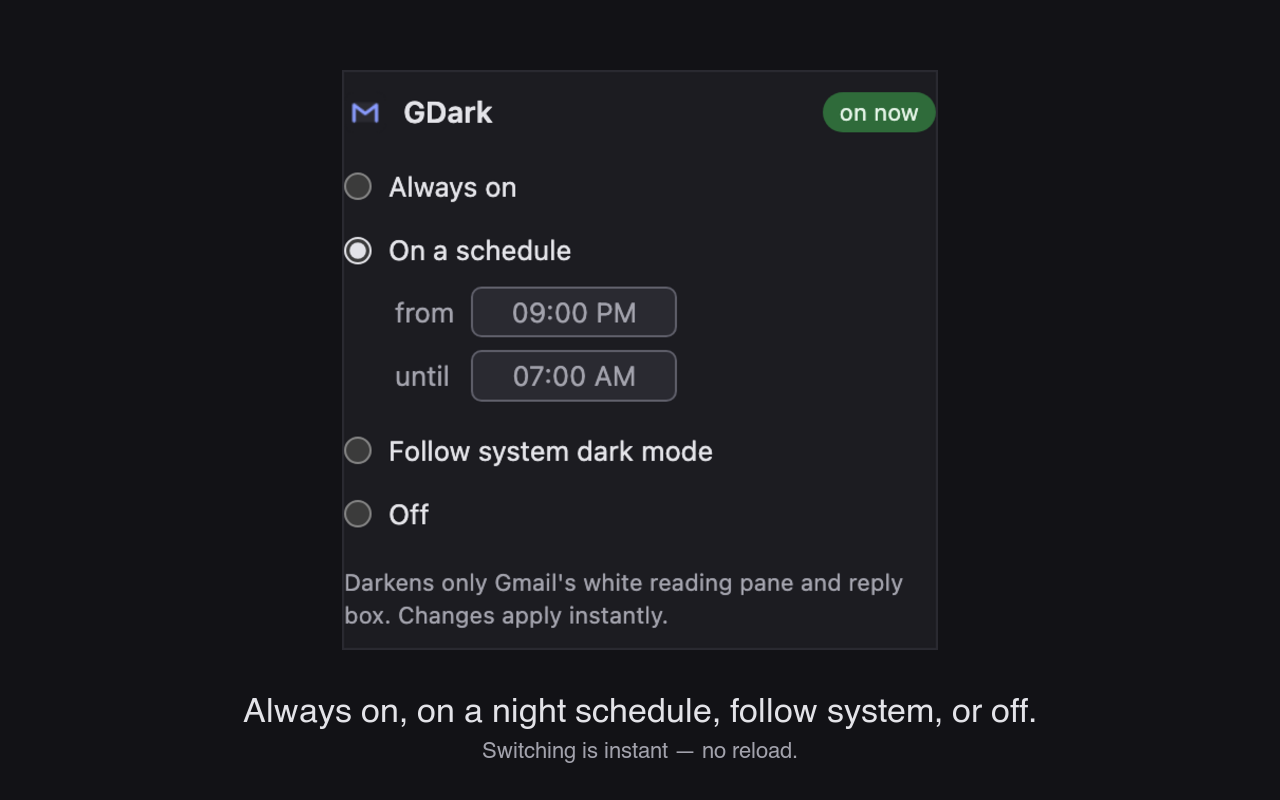
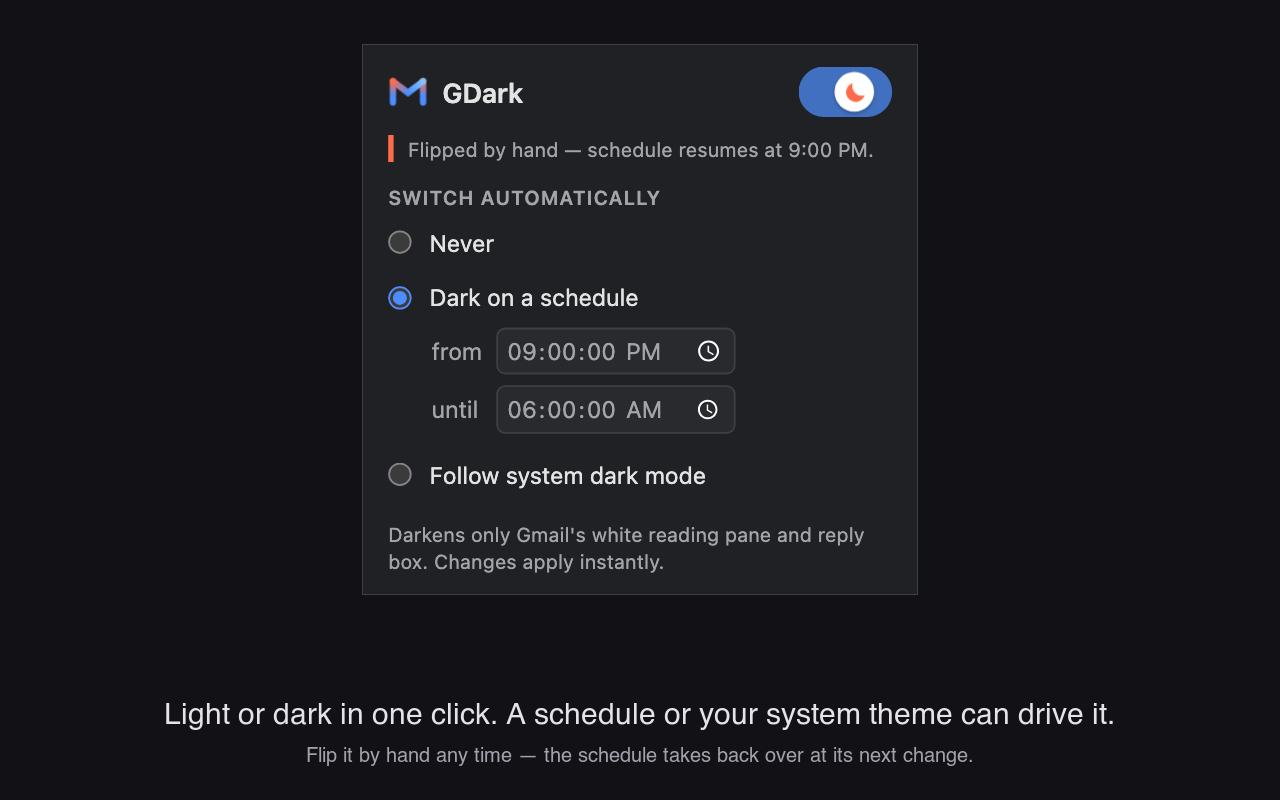
2.3.1 — menu and compose-shelf fixes, pill toggle, one-command publish
Gmail pop-up menus (.J-M): sprite icons on .J-N-JX get inverted, the
#ebebeb .J-Kh separator is toned down, and the hover highlight is painted
statically — the sweep dimmed Gmail's #eee but its class never came off,
so every row the mouse crossed stayed lit and hover read as nothing.

Docked compose shelf (.aDj): .aC2/.aC3 are Gmail's opaque sheet hiding the
reply body under the toolbar, so they're painted the card color instead of
blanked — transparent let the inverted body show through below the Send
row. Added a hairline + shadow on top and a border on ::before to replace
the ones that vanish on dark, and inverted the discard-draft trash sprite.

Popup: the Light/Dark segmented control is now a pill toggle in the
header — one hit target, click anywhere, and a row of space back.

Also: publish.sh submits to both stores in one command, the chat compose
fix keeps popups mounted in the field's container dimmed, and the store
screenshot/promo tiles are generated by scripts in store/.

Claude-Session: https://claude.ai/code/session_01Bv9zWxviqHxjgUVyYHa3Ha

Changed region(s): [[0.25, 0.0625, 0.75, 0.8125], [0.125, 0.875, 0.875, 0.9688]]

diff --git a/darkbox.css b/darkbox.css
@@ -52,11 +52,18 @@ html.gdark .nH.Hd .a8X .T-I-atl { /* keep the blue Send button un-inverted */
   filter: none;
 }
 
-/* white bars inside the card: reply-button row, smart-reply row, compose footer */
+/* white bars inside the card: reply-button row, smart-reply row */
 html.gdark :is(.iY, .nH.Hd) .nH,
-html.gdark :is(.iY, .nH.Hd) .nr.wR,
-html.gdark :is(.iY, .nH.Hd) .aC2 {
+html.gdark :is(.iY, .nH.Hd) .nr.wR {
   background-color: transparent !important;
+}
+/* .aC2 / .aC3 are Gmail's opaque sheet behind the docked compose shelf — the
+ * white that hides the reply body scrolling below the toolbar. Blanking them
+ * let the inverted body show through under the shelf (its text legible in the
+ * strip below the Send row), so they get painted the card color instead. */
+html.gdark :is(.iY, .nH.Hd) .aC2,
+html.gdark :is(.iY, .nH.Hd) .aC3 {
+  background-color: #1c1c21 !important;
 }
 
 /* Gmail chrome text inside the card */
@@ -127,8 +134,7 @@ html.gdark :is(.iY, .nH.Hd) .Am.editable img {
 
 /* expanded compose header: From / To / Cc / Bcc rows */
 html.gdark :is(.iY, .nH.Hd) .M9 .agh,   /* recipient area */
-html.gdark :is(.iY, .nH.Hd) .M9 .aGb,   /* recipient row bar */
-html.gdark :is(.iY, .nH.Hd) .aC3 {      /* compose footer strip */
+html.gdark :is(.iY, .nH.Hd) .M9 .aGb {  /* recipient row bar */
   background-color: transparent !important;
 }
 
@@ -238,8 +244,10 @@ html.gdark.gdb-chat [role="textbox"] {
   caret-color: #e3e3e8;
 }
 /* wrappers around the field that the sweep dimmed (Firefox paints the
- * field's own box) go transparent too; buttons keep their state layers */
-html.gdark.gdb-chat .gdb-compose :is(div, span):is(.gdb-dim, .gdb-dim2) {
+ * field's own box) go transparent too — but only the field's own ancestor
+ * chain (.gdb-field-wrap, tagged by content.js). Popups mounted inside the
+ * same container (the "+" Workspace tools menu) keep their dimmed surface. */
+html.gdark.gdb-chat .gdb-compose .gdb-field-wrap:is(.gdb-dim, .gdb-dim2) {
   background-color: transparent !important;
 }
 /* chat: Google's blue-600 (#0b57d0) text — smart-reply chips, "more
@@ -285,12 +293,60 @@ html.gdark.gdb-chat .gdb-lighten {
   color: #d8d8de !important;
 }
 
+/* Gmail pop-up menus (.J-M) — the sweep dims the white panel, but three
+ * pieces need explicit rules, and the highlight has to be static:
+ *  - .J-N-JX / .J-N-Jo icons are gstatic gm3 sprites (background-image on
+ *    a spacer <img>), near-black glyphs that disappear on the dark panel
+ *  - .J-Kh separator is a 1px #ebebeb border-top — a glaring white rule
+ *  - .J-N-JT / .J-N-JW (hover / keyboard highlight) is #eee, which the
+ *    sweep WOULD dim — but the class it adds never comes off, so every row
+ *    the mouse crossed stayed lit and hover read as no feedback at all.
+ *    Painting it here keeps hover a state instead of a scar: the computed
+ *    background is already dark when the sweep looks, so no tag is added.
+ *    These rules sit after the sweep-tag block so they win specificity ties. */
+html.gdark .J-M {
+  background-color: #26262c !important;
+  border-color: #3f3f48 !important;
+  box-shadow: 0 2px 10px rgba(0, 0, 0, 0.5) !important;
+}
+html.gdark .J-M .J-N,
+html.gdark .J-M .J-N .J-N-Jz {
+  color: #e6e6eb !important;
+}
+html.gdark .J-M .J-N-JE .J-N-Jz,   /* disabled items keep reading as disabled */
+html.gdark .J-M .J-N-JE .J-N-atj {
+  color: #6f6f7a !important;
+}
+html.gdark .J-M .J-N-JX,
+html.gdark .J-M .J-N-Jo {
+  filter: invert(0.8);
+}
+html.gdark .J-M .J-N.J-N-JT,
+html.gdark .J-M .J-N.J-N-JW,
+html.gdark .J-M .J-N:hover {
+  background-color: #3a3a44 !important;
+  border-color: #3a3a44 !important;
+}
+html.gdark .J-M .J-Kh {
+  border-top-color: #3f3f48 !important;
+}
+
 /* floating compose action shelf (toolbar + Send dock over the content
  * when you scroll a tall reply): its white backdrop is an ::after
  * pseudo-element on .aDj — pseudo-elements have no classList, so the
  * content.js sweep can never tag them; this must stay a static rule */
 html.gdark :is(.iY, .nH.Hd) .aDj::after {
   background-color: #1c1c21 !important;
+}
+/* ...and the shelf's own edges. Gmail lifts it off the content with a
+ * rgba(0,0,0,.1) top shadow and outlines it with a #e1e3e1 border on ::before;
+ * both vanish on dark, so the toolbar had no outline and text scrolled into it
+ * with no seam. A light hairline on top does the separating here. */
+html.gdark :is(.iY, .nH.Hd) .aDj {
+  box-shadow: 0 -1px 0 rgba(162, 162, 172, 0.3), 0 -6px 12px rgba(0, 0, 0, 0.55) !important;
+}
+html.gdark :is(.iY, .nH.Hd) .aDj::before {
+  border-color: rgba(162, 162, 172, 0.4) !important;
 }
 /* undo/redo pill that rides on the docked shelf */
 html.gdark :is(.iY, .nH.Hd) .Bswxkd {
@@ -300,6 +356,12 @@ html.gdark :is(.iY, .nH.Hd) .Bswxkd {
 /* inline compose window frame (1px rounded border on td.I5) */
 html.gdark :is(.iY, .nH.Hd) td.I5 {
   border-color: rgba(162, 162, 172, 0.4) !important;
+}
+
+/* discard-draft trash: a gstatic delete sprite on div.og, in the inline
+ * reply's footer row rather than the .a8X row the pop-out compose rule covers */
+html.gdark :is(.iY, .nH.Hd) .oh .og {
+  filter: invert(0.8);
 }
 
 /* compose formatting toolbar (Sans Serif / B / I / U ...) */

diff --git a/popup.css b/popup.css
@@ -27,40 +27,52 @@ header {
   margin-bottom: 10px;
 }
 .title { font-weight: 600; font-size: 15px; }
-.switch {
-  display: grid;
-  grid-template-columns: 1fr 1fr;
-  gap: 3px;
-  padding: 3px;
-  border-radius: 10px;
-  background: var(--well);
-}
-.switch button {
-  display: flex;
-  align-items: center;
-  justify-content: center;
-  gap: 6px;
-  padding: 7px 0;
+/* Header pill: one target, click anywhere to flip. The track states borrow
+   the segmented control's language — pale well for light, brand blue for
+   dark — and the sliding knob carries a coral sun or moon. */
+.toggle {
+  position: relative;
+  flex: none;
+  margin-left: auto;
+  width: 52px;
+  height: 28px;
+  padding: 0;
   border: 0;
-  border-radius: 8px;
-  font: inherit;
-  font-weight: 600;
-  color: var(--muted);
-  background: transparent;
+  border-radius: 999px;
+  background: var(--well);
+  box-shadow: inset 0 0 0 1px var(--line); /* the off track is close to the
+                                              popup background — ring it */
   cursor: pointer;
+  transition: background 0.18s ease;
 }
-.switch button:hover { color: var(--ink); background: var(--hover); }
-/* The selected segment previews what it does: Light is a white card with a
-   coral sun, Dark is a blue card with a coral moon. Same in both themes. */
-.switch button[aria-checked="true"] {
+.toggle[aria-checked="true"] { background: var(--blue); box-shadow: none; }
+.toggle:focus-visible { outline: 2px solid var(--blue); outline-offset: 2px; }
+.knob {
+  position: absolute;
+  top: 3px;
+  left: 3px;
+  display: grid;
+  place-items: center;
+  width: 22px;
+  height: 22px;
+  border-radius: 50%;
   background: #ffffff;
-  color: #1a1a1a;
-  box-shadow: 0 1px 2px rgba(0, 0, 0, 0.25);
-  cursor: default;
+  box-shadow: 0 1px 2px rgba(0, 0, 0, 0.3);
+  transition: transform 0.18s ease;
 }
-.switch button[aria-checked="true"]:last-child { background: var(--blue); color: #ffffff; }
-.switch button[aria-checked="true"] .glyph { color: var(--coral); }
-.glyph { width: 18px; height: 18px; flex: none; }
+.toggle[aria-checked="true"] .knob { transform: translateX(24px); }
+/* both glyphs are stacked in the knob; only the current one is shown */
+.glyph {
+  grid-area: 1 / 1;
+  width: 15px;
+  height: 15px;
+  color: var(--coral);
+}
+.toggle[aria-checked="true"] .sun,
+.toggle[aria-checked="false"] .moon { display: none; }
+@media (prefers-reduced-motion: reduce) {
+  .toggle, .knob { transition: none; }
+}
 .note {
   margin: 8px 0 0;
   padding-left: 8px;

diff --git a/popup.html b/popup.html
@@ -8,14 +8,15 @@
   <header>
     <img src="icons/icon-32.png" alt="" width="22" height="22">
     <span class="title">GDark</span>
+    <!-- One hit target: click anywhere on the pill to flip Gmail. The knob
+         carries the glyph for the mode you are in — sun left, moon right. -->
+    <button type="button" id="switch" class="toggle" role="switch" aria-checked="false" aria-label="Dark mode">
+      <span class="knob">
+        <svg class="glyph sun" viewBox="0 0 24 24" aria-hidden="true"><circle cx="12" cy="12" r="4.5" fill="currentColor"/><path d="M12 2.5v3M12 18.5v3M2.5 12h3M18.5 12h3M5.3 5.3l2.1 2.1M16.6 16.6l2.1 2.1M5.3 18.7l2.1-2.1M16.6 7.4l2.1-2.1" stroke="currentColor" stroke-width="2.2" stroke-linecap="round"/></svg>
+        <svg class="glyph moon" viewBox="0 0 24 24" aria-hidden="true"><path d="M20.5 14.2A8.5 8.5 0 0 1 9.8 3.5a8.5 8.5 0 1 0 10.7 10.7z" fill="currentColor"/></svg>
+      </span>
+    </button>
   </header>
-
-  <div id="switch" class="switch" role="radiogroup" aria-label="Gmail appearance">
-    <button type="button" role="radio" data-dark="false">
-      <svg class="glyph" viewBox="0 0 24 24" aria-hidden="true"><circle cx="12" cy="12" r="4.5" fill="currentColor"/><path d="M12 2.5v3M12 18.5v3M2.5 12h3M18.5 12h3M5.3 5.3l2.1 2.1M16.6 16.6l2.1 2.1M5.3 18.7l2.1-2.1M16.6 7.4l2.1-2.1" stroke="currentColor" stroke-width="2.2" stroke-linecap="round"/></svg>Light</button>
-    <button type="button" role="radio" data-dark="true">
-      <svg class="glyph" viewBox="0 0 24 24" aria-hidden="true"><path d="M20.5 14.2A8.5 8.5 0 0 1 9.8 3.5a8.5 8.5 0 1 0 10.7 10.7z" fill="currentColor"/></svg>Dark</button>
-  </div>
   <p id="note" class="note"></p>
 
   <fieldset id="auto">

diff --git a/popup.js b/popup.js
@@ -4,7 +4,7 @@
 const api = globalThis.browser ?? globalThis.chrome;
 const DEFAULTS = { dark: true, auto: 'schedule', override: null, start: '21:00', end: '06:00' };
 
-const switchBtns = [...document.querySelectorAll('#switch button')];
+const toggle = document.getElementById('switch');
 const radios = [...document.querySelectorAll('input[name="auto"]')];
 const schedule = document.getElementById('schedule');
 const startEl = document.getElementById('start');
@@ -76,10 +76,8 @@ function noteText(s) {
 
 function render() {
   const on = effective(settings);
-  switchBtns.forEach((b) => {
-    const isDark = b.dataset.dark === 'true';
-    b.setAttribute('aria-checked', String(isDark === on));
-  });
+  toggle.setAttribute('aria-checked', String(on));
+  toggle.title = on ? 'Gmail is dark — click for light' : 'Gmail is light — click for dark';
   radios.forEach((r) => (r.checked = r.value === settings.auto));
   schedule.classList.toggle('open', settings.auto === 'schedule');
   startEl.value = settings.start;
@@ -143,7 +141,7 @@ api.storage.sync.get(null, (raw) => {
   render();
 });
 
-switchBtns.forEach((b) => b.addEventListener('click', () => setDark(b.dataset.dark === 'true')));
+toggle.addEventListener('click', () => setDark(!effective(settings)));
 radios.forEach((r) => r.addEventListener('change', () => setAuto(r.value)));
 startEl.addEventListener('change', setTimes);
 endEl.addEventListener('change', setTimes);

diff --git a/content.js b/content.js
@@ -136,15 +136,22 @@
   // blue ::before (a tint over whatever is behind). Tag that container so
   // darkbox.css can repaint the tint as one solid surface for the toolbar
   // row and the message field together.
+  // The wrappers between the field and that container get .gdb-field-wrap:
+  // only those may go transparent — popups that Google mounts inside the
+  // same container (the "+" Workspace tools menu, slash-command list) must
+  // keep the dimmed background the sweep gives them.
   function processCompose(tb) {
+    const chain = [];
     for (let e = tb.parentElement; e && e !== document.body; e = e.parentElement) {
-      if (e.classList.contains('gdb-compose')) return;
+      if (e.classList.contains('gdb-compose')) break;
       const ps = getComputedStyle(e, '::before');
       if (ps.content !== 'none' && ps.backgroundColor !== 'rgba(0, 0, 0, 0)') {
         e.classList.add('gdb-compose');
-        return;
+        break;
       }
+      chain.push(e);
     }
+    for (const e of chain) e.classList.add('gdb-field-wrap');
   }
 
   // Chat renders some overlays (hovercards etc.) inside shadow roots, which

diff --git a/README.md b/README.md
@@ -53,11 +53,22 @@ Lint before shipping: `npx web-ext lint --source-dir . --ignore-files 'dist/**' 
 
 ## Release
 
-1. Bump `version` in `manifest.json`.
-2. `./build.sh` → `dist/gdark-<version>.zip`.
-3. Upload the same zip to https://addons.mozilla.org/developers/ and
-   https://chrome.google.com/webstore/devconsole. Listing copy is in
-   `store/listing.md`.
+`./publish.sh 2.3.1` bumps `manifest.json`, builds `dist/gdark-2.3.1.zip`, and
+submits it to both stores through
+[publish-browser-extension](https://github.com/aklinker1/publish-browser-extension)
+(Chrome Web Store API v2 with a service account; AMO with a JWT key pair).
+Credentials: `~/secrets/_Code/browser-stores.env` holds the service account,
+publisher id and AMO key pair shared by all texs.org extensions; `.env` (a
+symlink to `~/secrets/_Code/gdark/.env`) holds this extension's ids — keys in
+`.env.example`. `./publish.sh --dry-run` checks the credentials without
+uploading.
+
+The stores' listing text can't be set through the Chrome API, so wording
+changes in `store/listing.md` still get pasted into the dashboards by hand.
+
+Manual fallback: bump the version, `./build.sh`, upload the zip at
+https://addons.mozilla.org/developers/ and
+https://chrome.google.com/webstore/devconsole.
 
 Firefox only runs Mozilla-signed extensions, so the AMO upload is what makes
 the install survive restarts — even for your own use. Minimum Firefox is 127,

diff --git a/store/listing.md b/store/listing.md
@@ -69,7 +69,8 @@ Use a throwaway or scrubbed inbox — screenshots are public.
 
 1. Before/after split: same email, Gmail dark theme, left white / right DarkBox.
 2. A reply open inside the card, showing the darkened To/Cc rows and toolbar.
-3. The popup with "On a schedule" selected and 21:00 → 06:00 filled in.
+3. The popup — `node store/make-popup-shot.mjs` renders it with a schedule on and a
+   hand-flipped Dark (`screenshot-2-modes.png`).
 4. (optional) A dark-designed newsletter left un-inverted.
 
 ## Submission checklist
@@ -94,3 +95,8 @@ Use a throwaway or scrubbed inbox — screenshots are public.
 4. Privacy practices tab: single purpose (above), permission justifications
    (above), "does not collect user data", certify compliance.
 5. Distribution: public, all regions. Submit for review (usually 1–3 days).
+
+## Chrome graphic assets
+- Store icon 128×128: `icons/icon-128.png`
+- Screenshots: the `store/screenshot-*.png` files above (1280×800, 24-bit PNG, no alpha)
+- Small promo tile 440×280 + marquee 1400×560: `node store/make-tiles.mjs` → `store/promo-small.png`, `store/promo-marquee.png`
